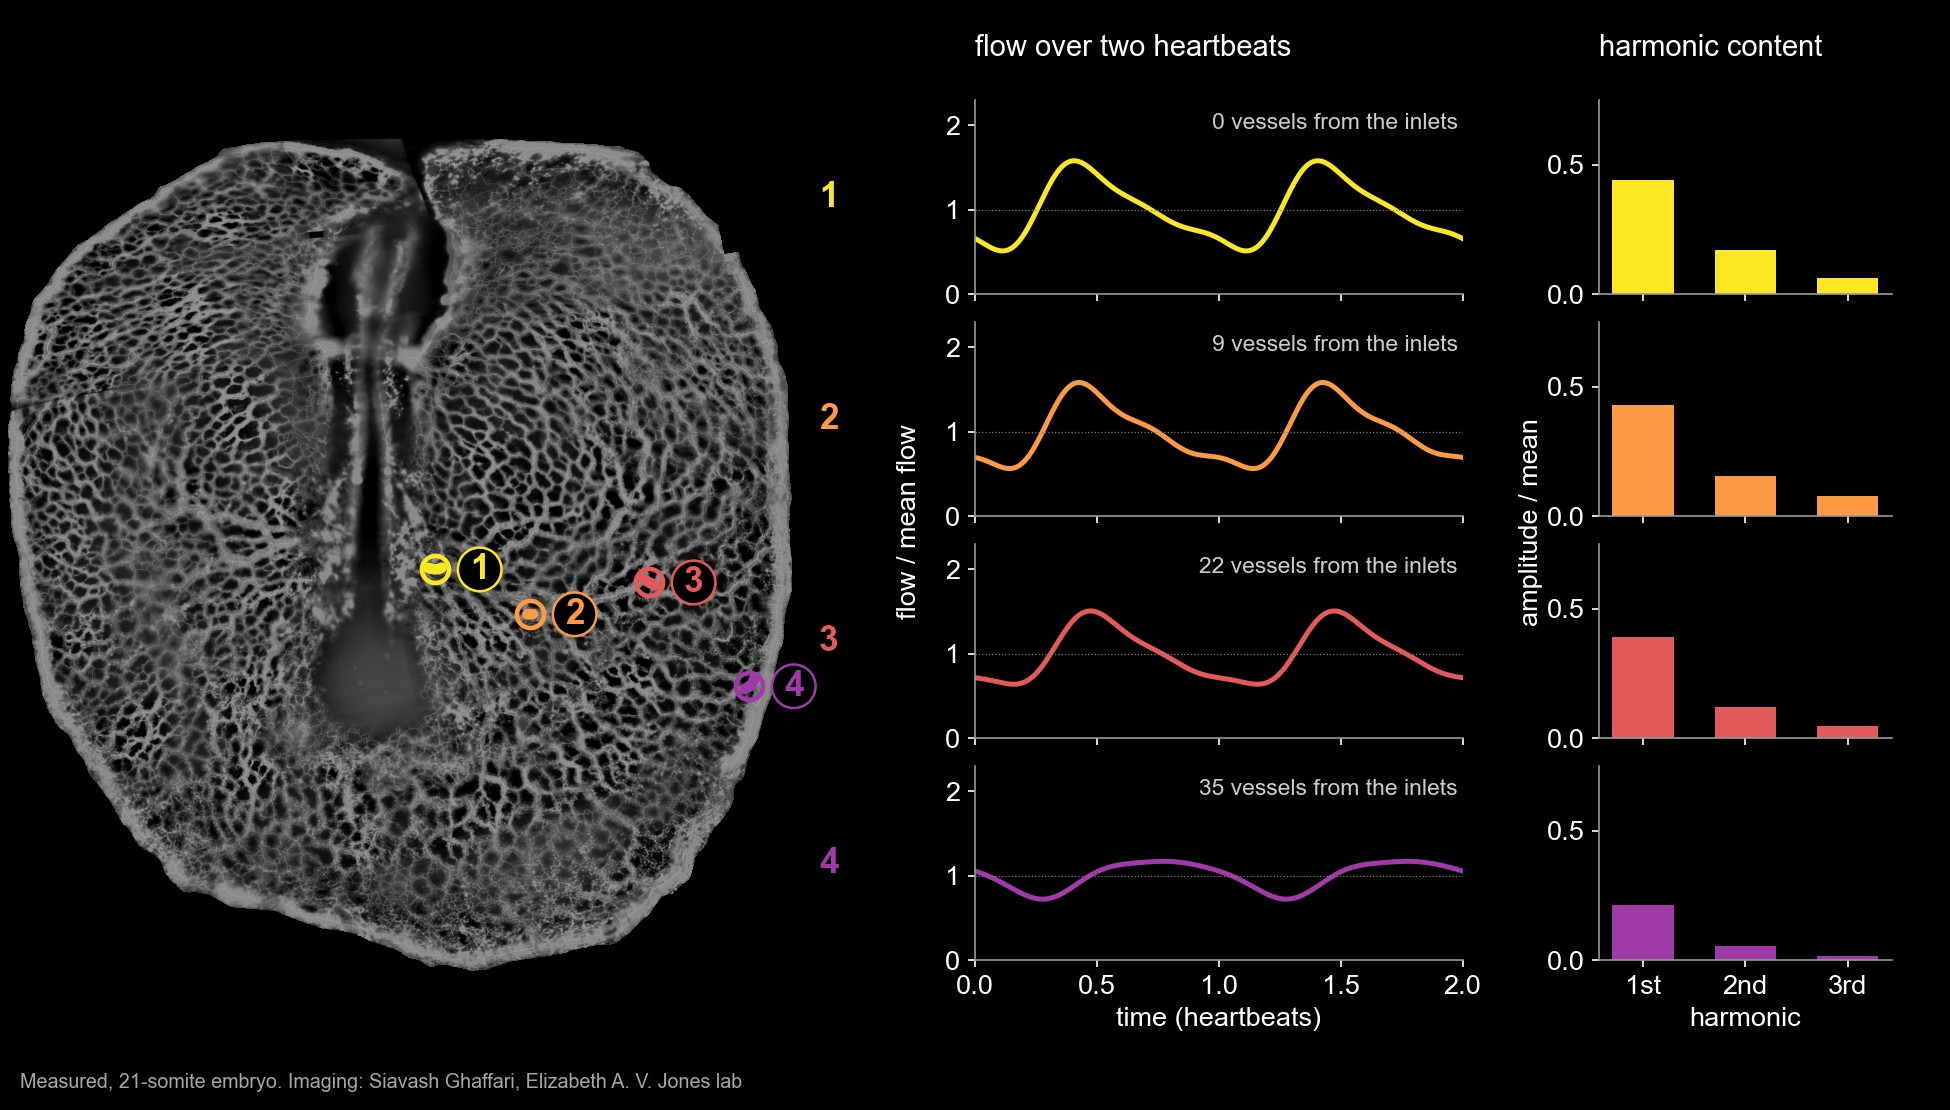
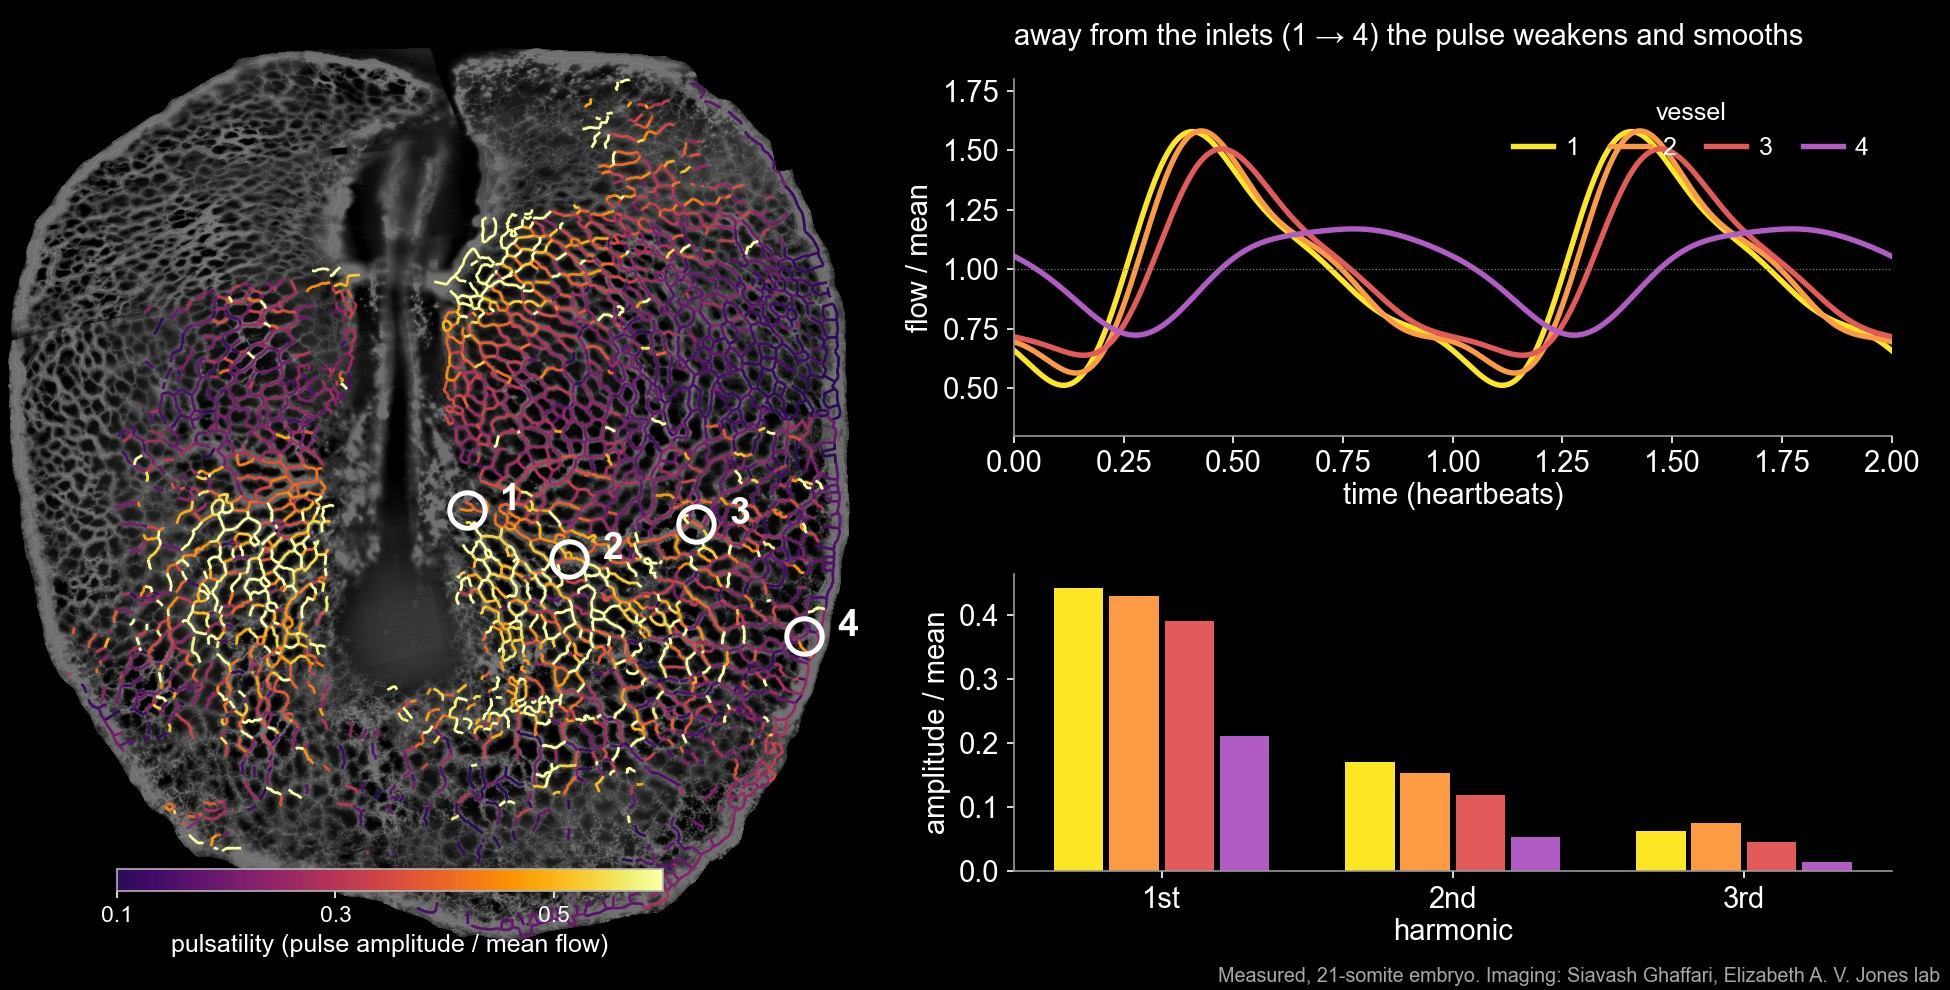
Yolk sac pulse figure: pulsatility map of all vessels + waveform overlay + grouped spectra; caption updated

diff --git a/yolk-sac.html b/yolk-sac.html
@@ -155,9 +155,9 @@
     <section class="research-section" id="pulse" aria-labelledby="pulse-heading">
       <h2 id="pulse-heading">What the pulse reveals</h2>
       <figure class="research-figure">
-        <img src="images/yolk-sac/pulse-spectra-21somite.jpg" width="1950" height="1110" loading="lazy" decoding="async"
+        <img src="images/yolk-sac/pulse-spectra-21somite.jpg" width="1950" height="990" loading="lazy" decoding="async"
              alt="Measured flow waveforms and harmonic spectra of four vessels at increasing distance from the arterial inlets">
-        <figcaption>Measured flow in four vessels of a 21-somite embryo at increasing distance from the arterial inlets (left): flow over two heartbeats relative to its mean (middle) and its harmonic content (right). Away from the inlets the pulse weakens and its higher harmonics fade fastest. Imaging: Siavash Ghaffari, Elizabeth A. V. Jones lab.</figcaption>
+        <figcaption>Pulsatility of every measured vessel in a 21-somite embryo (left), and, for four vessels at increasing distance from the arterial inlets, the flow over two heartbeats relative to its mean (top right) and its harmonic content (bottom right). Away from the inlets the pulse weakens and its higher harmonics fade fastest. Imaging: Siavash Ghaffari, Elizabeth A. V. Jones lab.</figcaption>
       </figure>
       <div class="research-copy">
         <p>
